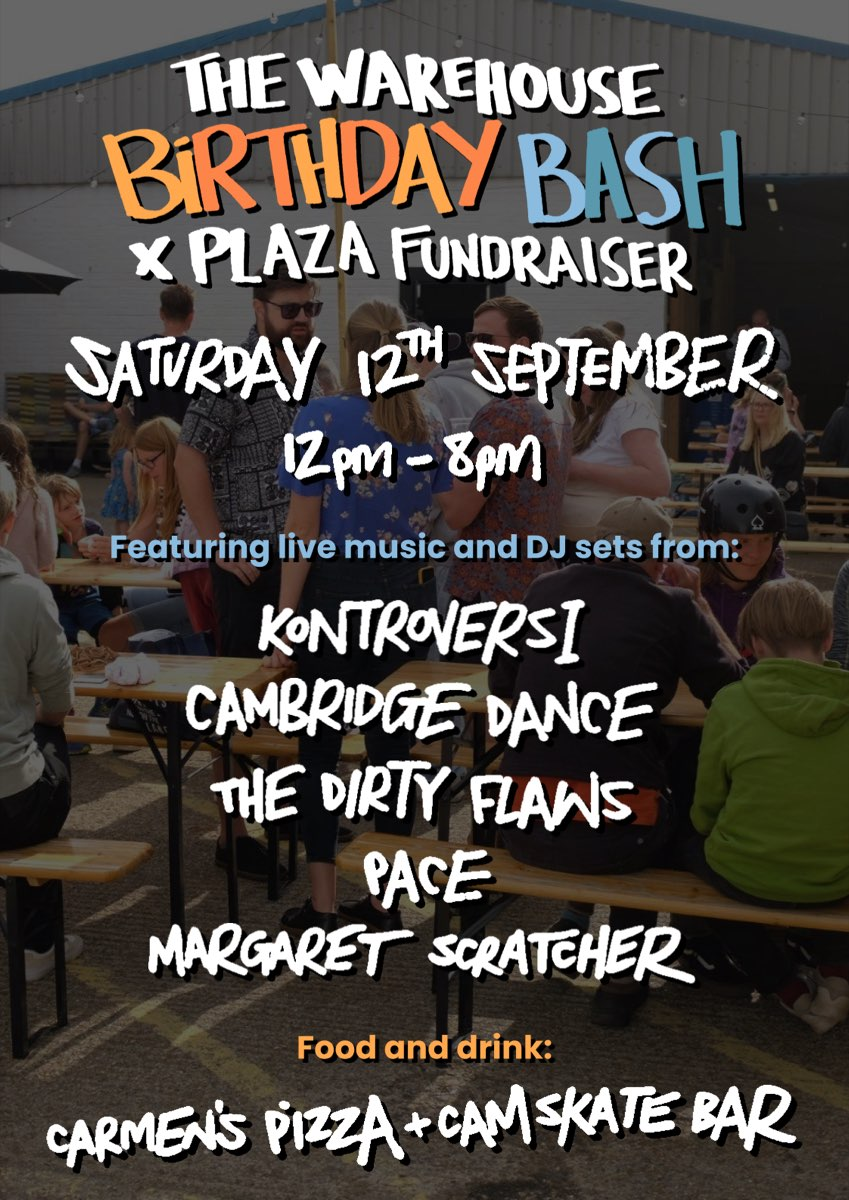
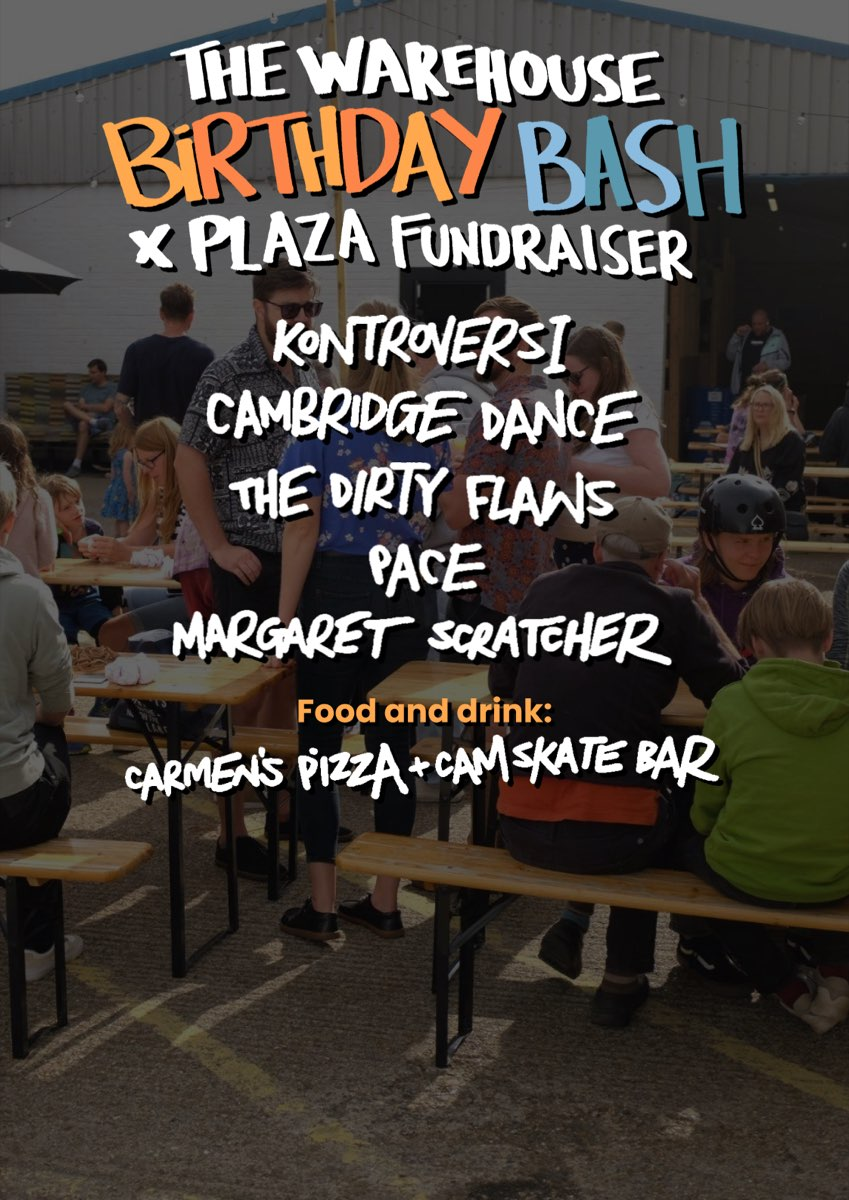
Swap Birthday Bash posters: undated lineup in carousel, dated poster on events page
Claude-Session: https://claude.ai/code/session_01VjQ8hZBVuJvZUwJUbyeoxs

Changed region(s): [[0.0612, 0.0308, 0.9187, 0.8325], [0.0306, 0.8633, 0.9494, 0.9867]]

diff --git a/events/index.html b/events/index.html
@@ -153,7 +153,7 @@
             </div>
             <div class="right-column">
               <img
-                src="../img/warehouse_birthday_bash_2026.jpg"
+                src="../img/birthday_bash_2026_poster.jpg"
                 alt="The Warehouse Birthday Bash x Plaza Fundraiser poster - Saturday 12th September, 12 to 8pm"
               />
             </div>
